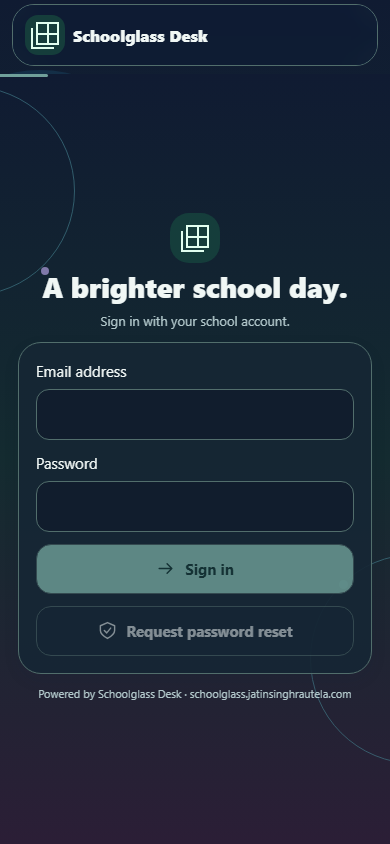
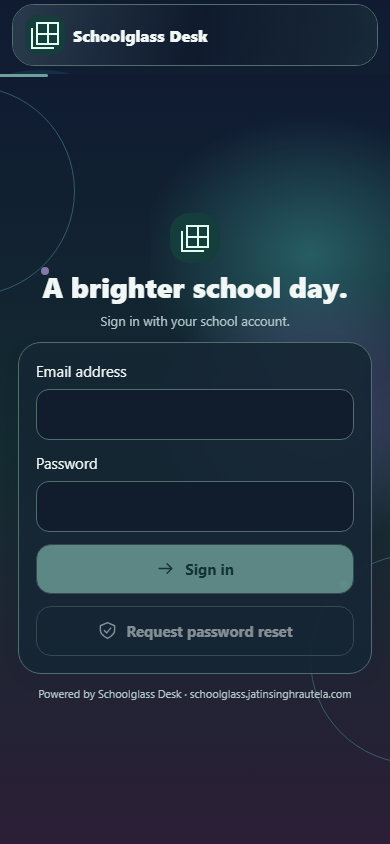
Enhance mobile aurora motion and glass transitions [skip render]

Changed region(s): [[0.5538, 0.1848, 1.0, 0.5545], [0.0308, 0.0, 0.1231, 0.0924]]

diff --git a/apps/mobile/src/components/ambient.tsx b/apps/mobile/src/components/ambient.tsx
@@ -1,3 +1,4 @@
+import Svg, { Defs, RadialGradient, Stop, Ellipse } from "react-native-svg";
 import React, { useCallback, useEffect, useState } from "react";
 import {
   Animated,
@@ -37,7 +38,7 @@ export function AmbientMotion() {
     const motion = Animated.loop(
       Animated.timing(phase, {
         toValue: 1,
-        duration: 14000,
+        duration: 10000,
         easing: Easing.linear,
         useNativeDriver: Platform.OS !== "web",
         isInteraction: false,
@@ -55,6 +56,68 @@ export function AmbientMotion() {
       importantForAccessibility="no-hide-descendants"
       style={[StyleSheet.absoluteFill, { overflow: "hidden" }]}
     >
+      <Animated.View
+        testID="ambient-aurora"
+        style={{
+          position: "absolute",
+          top: 40,
+          right: -100,
+          width: 340,
+          height: 430,
+          opacity: dark ? 0.7 : 0.8,
+          transform: [
+            {
+              translateX: phase.interpolate({
+                inputRange: [0, 0.5, 1],
+                outputRange: [0, -55, 0],
+              }),
+            },
+            {
+              translateY: phase.interpolate({
+                inputRange: [0, 0.5, 1],
+                outputRange: [0, 70, 0],
+              }),
+            },
+            {
+              scale: phase.interpolate({
+                inputRange: [0, 0.5, 1],
+                outputRange: [1, 1.18, 1],
+              }),
+            },
+          ],
+        }}
+      >
+        <Svg width="100%" height="100%" viewBox="0 0 340 430">
+          <Defs>
+            <RadialGradient id="mint">
+              <Stop
+                offset="0"
+                stopColor={dark ? "#388b8b" : "#8fd8c8"}
+                stopOpacity=".8"
+              />
+              <Stop
+                offset="1"
+                stopColor={dark ? "#388b8b" : "#8fd8c8"}
+                stopOpacity="0"
+              />
+            </RadialGradient>
+            <RadialGradient id="violet">
+              <Stop
+                offset="0"
+                stopColor={dark ? "#7764a9" : "#c2a9e9"}
+                stopOpacity=".7"
+              />
+              <Stop
+                offset="1"
+                stopColor={dark ? "#7764a9" : "#c2a9e9"}
+                stopOpacity="0"
+              />
+            </RadialGradient>
+          </Defs>
+          <Ellipse cx="160" cy="140" rx="170" ry="140" fill="url(#mint)" />
+          <Ellipse cx="170" cy="295" rx="160" ry="135" fill="url(#violet)" />
+        </Svg>
+      </Animated.View>
       <Animated.View
         testID="ambient-flow"
         style={{

diff --git a/apps/mobile/src/components/motion.tsx b/apps/mobile/src/components/motion.tsx
@@ -1,5 +1,11 @@
 import React, { useEffect, useState } from "react";
-import { AccessibilityInfo, Animated, Easing, Platform } from "react-native";
+import {
+  AccessibilityInfo,
+  Animated,
+  Easing,
+  Platform,
+  View,
+} from "react-native";
 import { usePathname } from "expo-router";
 export function useReducedMotion() {
   const [reduced, setReduced] = useState(true);
@@ -34,7 +40,7 @@ export function RouteStage({ children }: { children: React.ReactNode }) {
     progress.setValue(0);
     const animation = Animated.timing(progress, {
       toValue: 1,
-      duration: 440,
+      duration: 520,
       easing: Easing.out(Easing.cubic),
       useNativeDriver: Platform.OS !== "web",
       isInteraction: false,
@@ -43,27 +49,32 @@ export function RouteStage({ children }: { children: React.ReactNode }) {
     return () => animation.stop();
   }, [path, reduced, progress]);
   return (
-    <Animated.View
-      style={{
-        flex: 1,
-        opacity: progress,
-        transform: [
-          {
-            scale: progress.interpolate({
-              inputRange: [0, 1],
-              outputRange: [0.94, 1],
-            }),
-          },
-          {
-            translateY: progress.interpolate({
-              inputRange: [0, 1],
-              outputRange: [30, 0],
-            }),
-          },
-        ],
-      }}
-    >
-      {children}
-    </Animated.View>
+    <View style={{ flex: 1, overflow: "hidden" }}>
+      <Animated.View
+        style={{
+          flex: 1,
+          opacity: progress.interpolate({
+            inputRange: [0, 0.35, 1],
+            outputRange: [0.35, 1, 1],
+          }),
+          transform: [
+            {
+              scale: progress.interpolate({
+                inputRange: [0, 0.8, 1],
+                outputRange: [0.935, 1.008, 1],
+              }),
+            },
+            {
+              translateY: progress.interpolate({
+                inputRange: [0, 1],
+                outputRange: [34, 0],
+              }),
+            },
+          ],
+        }}
+      >
+        {children}
+      </Animated.View>
+    </View>
   );
 }

diff --git a/apps/mobile/src/components/glass.tsx b/apps/mobile/src/components/glass.tsx
@@ -148,7 +148,7 @@ export function GlassSurface({ children, style, ...props }: ViewProps) {
           pointerEvents="none"
           blurTarget={target || undefined}
           blurMethod="dimezisBlurViewSdk31Plus"
-          intensity={50}
+          intensity={65}
           tint={dark ? "dark" : "light"}
           style={[
             StyleSheet.absoluteFill,
@@ -160,6 +160,19 @@ export function GlassSurface({ children, style, ...props }: ViewProps) {
           ]}
         />
       )}
+      {!opaque ? (
+        <LinearGradient
+          pointerEvents="none"
+          colors={
+            dark
+              ? ["#bcecff25", "#ffffff00", "#7ed8c412"]
+              : ["#ffffffaa", "#ffffff00", "#b8e1e833"]
+          }
+          start={{ x: 0, y: 0 }}
+          end={{ x: 1, y: 1 }}
+          style={StyleSheet.absoluteFill}
+        />
+      ) : null}
       {children}
     </View>
   );

diff --git a/docs/MOBILE-PLAN.md b/docs/MOBILE-PLAN.md
@@ -15,11 +15,12 @@ This table is the current source of truth; dated implementation notes below are 
 | M4.1 Account security | Active sign-ins, confirmed sign-out of other sessions, account-scoped client guards | Implemented 17 October 2026 | Automated checks passed; owner two-device check pending |
 | M4.2 Daily task efficiency | Simplified dashboard, selectable dates, class-wide attendance review/save | Implemented 17 October 2026 | Automated batch checks; native calendar/roster phone walkthrough pending |
 | M4.3 Ambient motion and navigation | Branded glass top bar, selected-tab capsules, compact responsive login, focused ambient flow/orbits | Implemented 17 October 2026 | Browser fit/motion checks and physical keyboard/frame-rate acceptance |
+| M4.4 Glass and motion refinement | Drifting mint/violet aurora, faster orbit flow, settling zoom, navigation glass highlights | Implemented 17 October 2026 | Contrast/motion regressions and physical-device performance acceptance |
 | M5.1 Pilot preparation | Reproducible build setup, dependency review, signing and device matrix | Checklist documented; signed build not started | Resolve/review upstream audit gates, verify SDK/licenses and private signing setup |
 | M5.2 Device pilot | Signed Android preview, iOS preview route, lifecycle/slow-network/accessibility checks | Pending | Record actual device results and fix failures; owner accepts pilot |
 | M6 Optional extensions | Push, carefully scoped offline reads/sync, additional mobile management | Planned, not enabled | Define feature contracts and cost/privacy constraints individually; no offline writes or push without separate acceptance |
 
-Next development priority after M4.3 is M5.1/M5.2, not expanding into unverified push/offline features. No paid build/store subscription, production data mutation or public mobile distribution is part of the current work. Existing website phases are separate and remain documented in the web plan.
+Next development priority after M4.4 is M5.1/M5.2, not expanding into unverified push/offline features. No paid build/store subscription, production data mutation or public mobile distribution is part of the current work. Existing website phases are separate and remain documented in the web plan.
 
 ## Feasibility and stack
 

diff --git a/docs/WORKLOG.md b/docs/WORKLOG.md
@@ -482,3 +482,10 @@ Added a travelling accent rail and edge-orbit particles through one transform ph
 Rebuilt login as a compact welcome/form/footer, removing the oversized hero and signed-in bottom clearance. Measured content/viewport determine whether scrolling is needed; ordinary phone login fits without scrolling, while small screens, keyboard resize, large text and long feedback can still reveal all controls. No credentials, account behavior, school data, dependencies or backend configuration changed. Updated the phase plan and workflow documentation; actual native keyboard/material/frame-rate acceptance remains pending.
 
 Validation: all 25 mobile tests, typecheck/lint and Android/iOS/web JS exports passed. Browser checks verify no scroll overflow at 390×844, actual ambient transform movement when motion is enabled, reduced-motion mode and 320px login/control reachability, along with existing role/attendance/security regression flows. Preview uses synthetic data; no live API writes. No Render deployment required.
+
+
+## 17 October 2026 — M4.4 aurora, glass and settling transitions
+
+Added original mint/violet radial-gradient aurora shapes behind screens, drifting/breathing on the same single focused phase as the faster 10-second orbit/rail. These soft-focus gradients avoid animated blur filters. Enhanced navigation blur fallback (65 intensity) and diagonal material highlights, retaining native Liquid Glass/Reduce Transparency fallbacks and backed text surfaces. Added a 520 ms eased fade/lift with a small zoom overshoot/settle. Small-screen testing caught transient horizontal overflow from the overshoot; an outer clip contains transformed content without clipping controls inside their scroll views.
+
+No new dependency, asset download, network animation traffic, API/configuration or real-data change. Existing focus/background/reduced-motion controls remain. Updated MOBILE-PLAN.md and MOBILE-WORKFLOWS.md. All 25 mobile tests, typecheck/lint and Android/iOS/web JS exports passed. Isolated browser checks verify the aurora/rail move with motion enabled, login fit, light/dark contrast, 320px overflow and existing role/attendance/security workflows. Physical material fidelity and frame-rate acceptance remain pending. No Render deployment required.

diff --git a/docs/MOBILE-WORKFLOWS.md b/docs/MOBILE-WORKFLOWS.md
@@ -90,3 +90,10 @@ The top bar now carries the original brand mark and an icon/text Sign out action
 Login is compact, with a short welcome header, account form and small brand/endpoint footer. Removed the oversized hero and signed-in footer clearance from login. At normal phone heights it fits without scrolling; actual measured overflow enables scrolling on small screens, larger accessibility text, keyboard resize and longer errors/status messages. Keyboard avoidance and reachable reset/sign-in controls take precedence over rigid clipping. Native keyboard and device smoothness still need phone acceptance. No API, account, school data or dependency changes.
 
 Preview: [compact login](screenshots/mobile-login-compact.png). Screenshots are local dummy data; animations require the running app.
+
+
+## M4.4 — Aurora and glass refinement
+
+Added softly graduated mint/violet aurora shapes behind screen content, drifting and breathing on the same focused animation phase as the orbit/rail. Radial gradients provide a soft-focus appearance without an animated blur filter. The shared loop runs every 10 seconds, pauses when inactive/unfocused and becomes static with Reduced Motion. Screen entry now uses a 520 ms eased fade/lift with a small zoom overshoot and settle, clipped to the content boundary to prevent transient horizontal overflow.
+
+Navigation's blur fallback intensity is 65, with a diagonal glass highlight above native/fallback material. Text and record surfaces stay backed; no extra record-card BlurView, image download, network polling or new dependency. Native Liquid Glass and Reduce Transparency fallbacks remain capability checked. Device smoothness/material fidelity remains a phone acceptance item; browser checks validate transform movement, contrast and layout.
